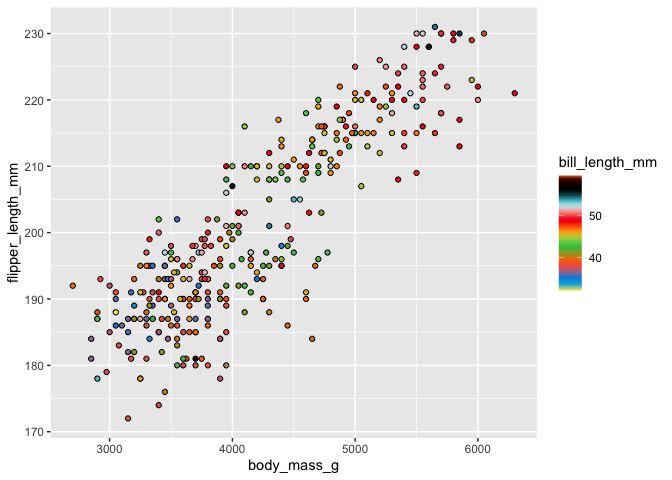
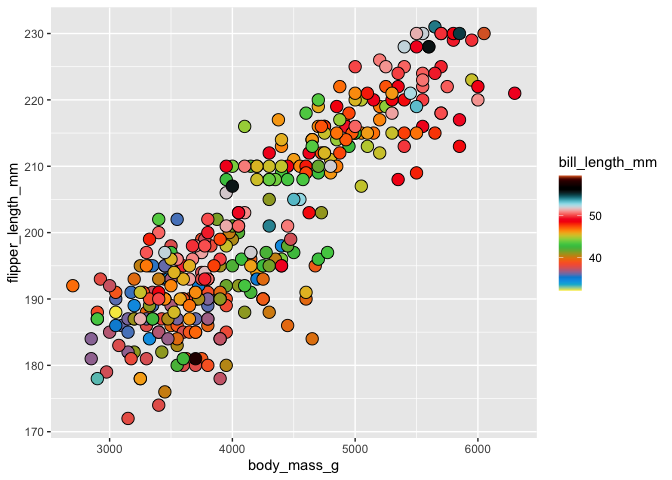
bigger points

diff --git a/README.md b/README.md
@@ -32,7 +32,7 @@ library(palmerpenguins)
 
 penguins %>%
   ggplot(aes(body_mass_g,flipper_length_mm, fill =  bill_length_mm)) +
-  geom_point(shape = 21) +
+  geom_point(shape = 21, size = 4) +
   scale_fill_radiohead_c(album = "in_rainbows")
 #> Warning: Removed 2 rows containing missing values (geom_point).
 ```
@@ -44,7 +44,7 @@ penguins %>%
 
 penguins %>%
   ggplot(aes(body_mass_g,flipper_length_mm, fill =  island)) +
-  geom_point(shape = 21) +
+  geom_point(shape = 21, size = 4) +
   scale_fill_radiohead_d(album = "king_of_limbs")
 #> Warning: Removed 2 rows containing missing values (geom_point).
 ```
